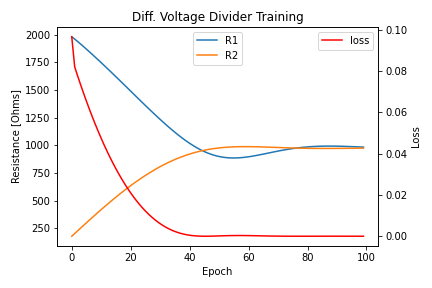
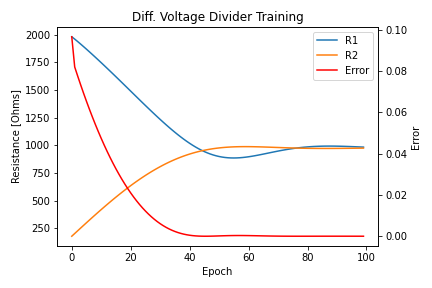
Update lpf and voltage divider plots

Changed region(s): [[0.7222, 0.125, 0.8727, 0.2812], [0.4514, 0.0938, 0.5718, 0.25], [0.9329, 0.4375, 0.9931, 0.5312]]

diff --git a/wdf_py/lpf.py b/wdf_py/lpf.py
@@ -1,7 +1,7 @@
 # %%
 import numpy as np
-import tf_wdf as wdf
-from tf_wdf import tf
+import lib.tf_wdf as wdf
+from lib.tf_wdf import tf
 import tqdm as tqdm
 import matplotlib.pyplot as plt
 import audio_dspy as adsp
@@ -40,8 +40,6 @@ class Model(tf.Module):
         output_sequence = output_sequence.stack()
         return output_sequence
 
-model = Model()
-
 # %%
 batch_size = 256
 n_batches = 5
@@ -63,9 +61,14 @@ plt.plot(data_in_batched[0])
 plt.plot(data_target[:,0])
 
 # %%
+model = Model()
 loss_func = tf.keras.losses.MeanSquaredError()
 R_optimizer = tf.keras.optimizers.Adam(learning_rate=25.0)
-C_optimizer = tf.keras.optimizers.Adam(learning_rate=5.0e-11)
+C_optimizer = tf.keras.optimizers.Adam(learning_rate=10.0e-9)
+
+Rs = []
+Cs = []
+losses = []
 
 # for epoch in tqdm.tqdm(range(250)):
 for epoch in tqdm.tqdm(range(100)):
@@ -83,6 +86,10 @@ for epoch in tqdm.tqdm(range(100)):
     R_optimizer.apply_gradients([(grads[1], model.R1.R)])
     C_optimizer.apply_gradients([(grads[0], model.C1.C)])
 
+    Rs.append(model.R1.R.numpy())
+    Cs.append(model.C1.C.numpy())
+    losses.append(loss)
+
 print(f'\nFinal Results:')
 print(f'    Loss: {loss}')
 print(f'    Grads: {[g.numpy() for g in grads]}')
@@ -94,5 +101,33 @@ print(final_freq)
 outs = model.forward(data_in)[...,0]
 plt.plot(data_target[:,0])
 plt.plot(outs, '--')
+
+# %%
+fig, ax = plt.subplots()
+fig.subplots_adjust(right=0.75)
+
+twin1 = ax.twinx()
+twin2 = ax.twinx()
+
+twin2.spines.right.set_position(("axes", 1.2))
+
+Rs_plot, = ax.plot(Rs, "b-", label="R")
+Cs_plot, = twin1.plot(Cs, "r-", label="C")
+losses_plot, = twin2.plot(losses, "g-", label="Error")
+
+ax.set_xlabel("Epoch")
+ax.set_ylabel("Resistance [Ohms]")
+twin1.set_ylabel("Capacitor [Farads]")
+twin2.set_ylabel("Error")
+
+ax.yaxis.label.set_color(Rs_plot.get_color())
+twin1.yaxis.label.set_color(Cs_plot.get_color())
+twin2.yaxis.label.set_color(losses_plot.get_color())
+
+ax.legend(handles=[Rs_plot, Cs_plot, losses_plot])
+
+plt.title('Diff. RC Lowpass Training')
+fig.tight_layout()  # otherwise the right y-label is slightly clipped
+plt.savefig('plots/RC_lpf.png')
 
 # %%

diff --git a/wdf_py/voltage_divider.py b/wdf_py/voltage_divider.py
@@ -96,14 +96,15 @@ fig, ax1 = plt.subplots()
 
 ax1.set_xlabel('Epoch')
 ax1.set_ylabel('Resistance [Ohms]')
-ax1.plot(R1s, label='R1')
-ax1.plot(R2s, label='R2')
+R1s_plot, = ax1.plot(R1s, label='R1')
+R2s_plot, = ax1.plot(R2s, label='R2')
 ax1.legend(loc='upper center')
 
 ax2 = ax1.twinx()
-ax2.set_ylabel('Loss')
-ax2.plot(losses, color='red', label='loss')
-ax2.legend()
+ax2.set_ylabel('Error')
+losses_plot, = ax2.plot(losses, color='red', label='Error')
+
+ax1.legend(handles=[R1s_plot, R2s_plot, losses_plot])
 
 plt.title('Diff. Voltage Divider Training')
 
